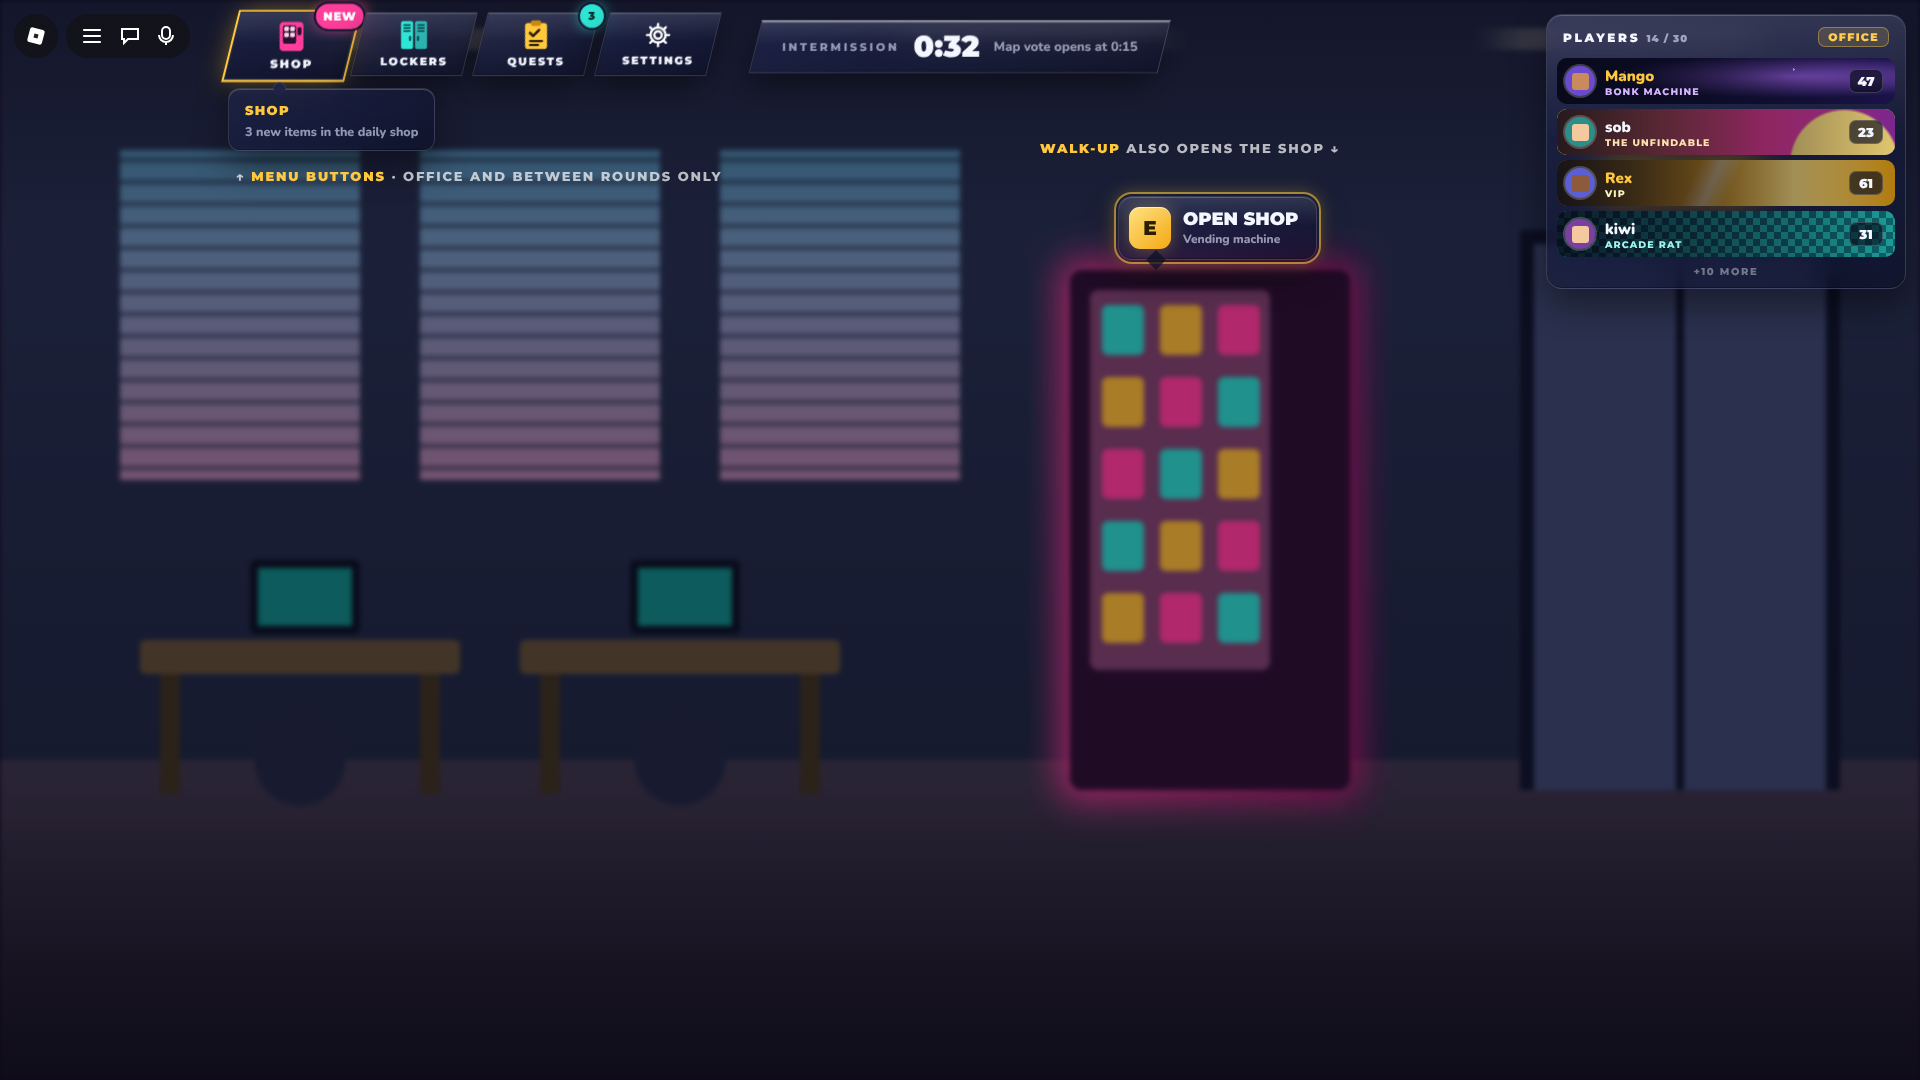
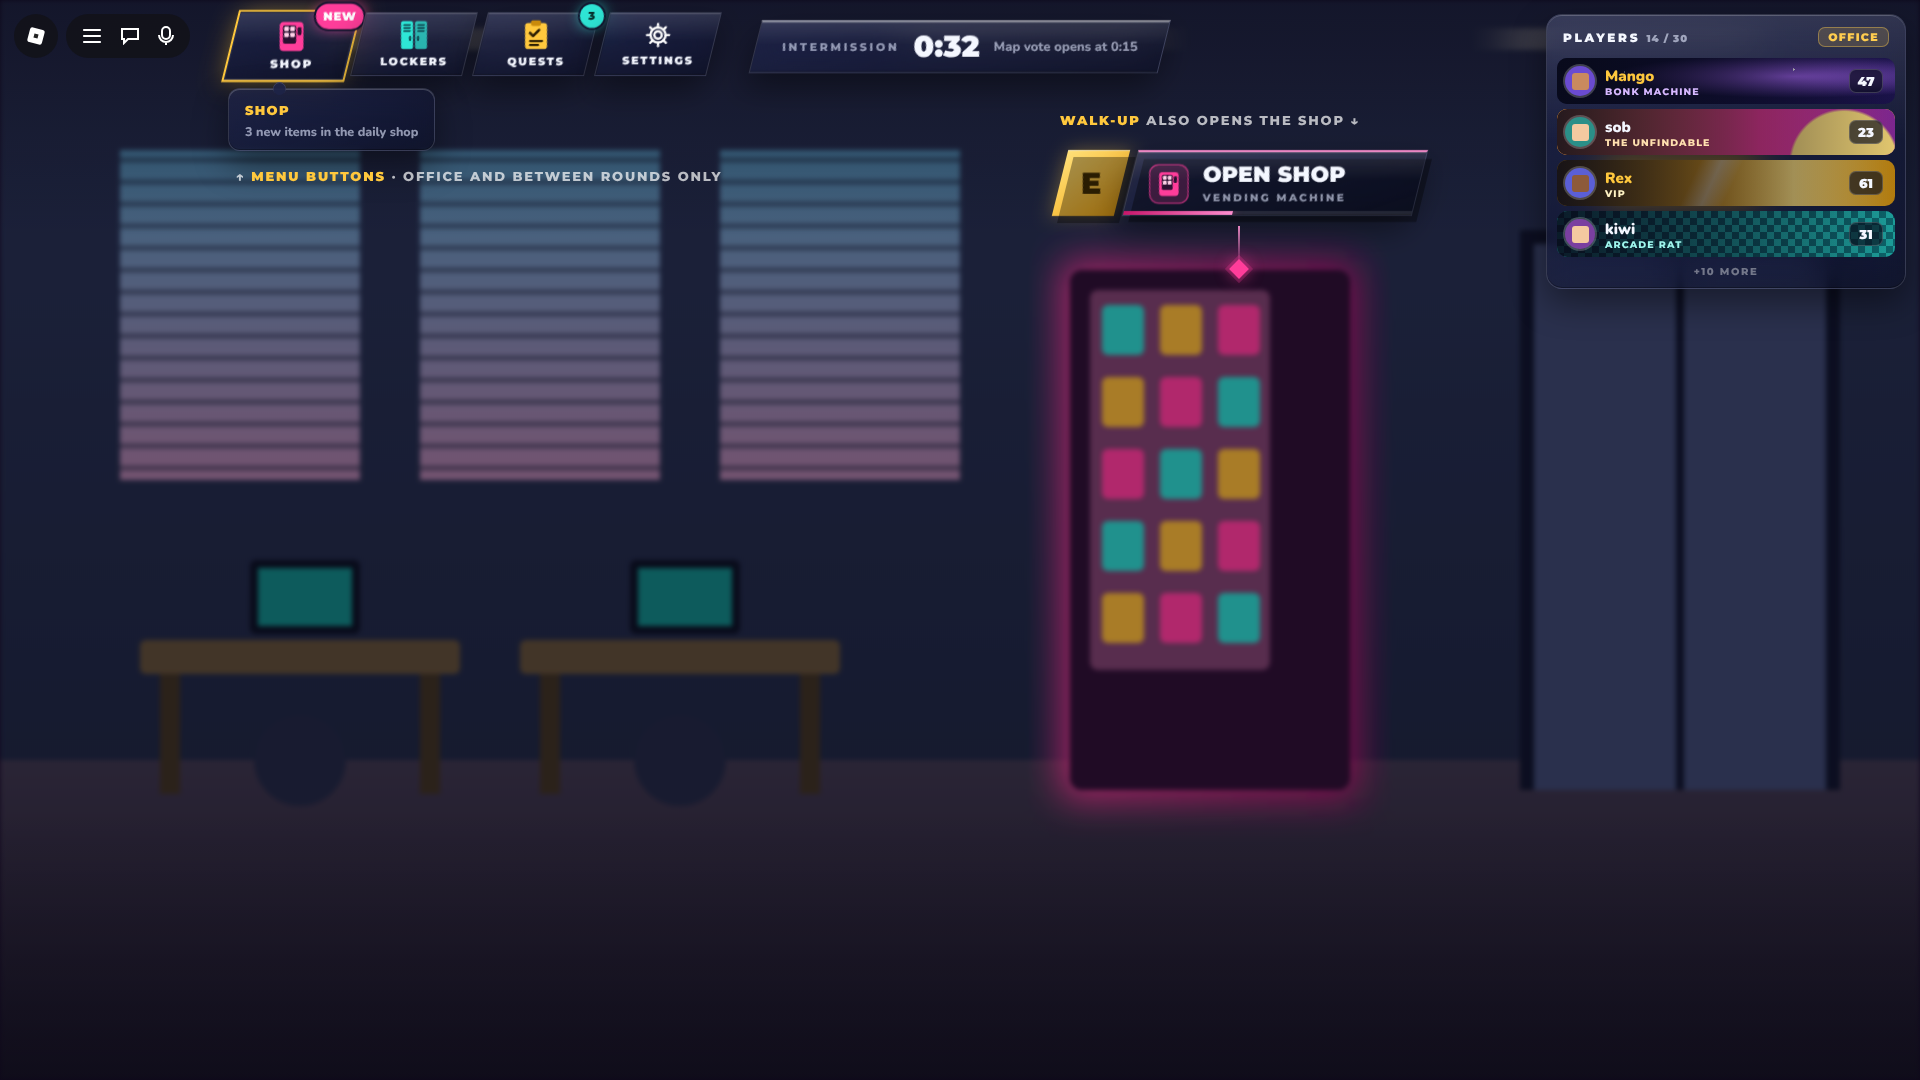
Restyle the walk-up prompt in the mixed esports + glass style
Claude-Session: https://claude.ai/code/session_015tY4PgXudsWvih9vAot5cc

Changed region(s): [[0.5312, 0.0917, 0.75, 0.275]]

diff --git a/docs/GAME_DESIGN.md b/docs/GAME_DESIGN.md
@@ -504,8 +504,12 @@ similar in Roblox) and a rounded font for body text (Nunito or similar).
 - **Notification badges:** "NEW" on the shop when the daily shop refreshes,
   and a number on Quests for quests or a daily reward ready to claim.
 - Walking up to a **vending machine** or **locker** in the office also
-  opens the shop or lockers, with an on-screen prompt (for example "E ·
-  Open shop").
+  opens the shop or lockers. The **walk-up prompt** uses the same mixed
+  style: a slanted gold key block ("E", or the controller/touch button), a
+  slanted glass panel with an icon, a big "OPEN SHOP" label and a small
+  "VENDING MACHINE" label, a hold-progress bar along the bottom, and a thin
+  line down to a glowing diamond marker on the object. See
+  `docs/mockups/menu-buttons.png`.
 
 ### Player list (top right)
 
